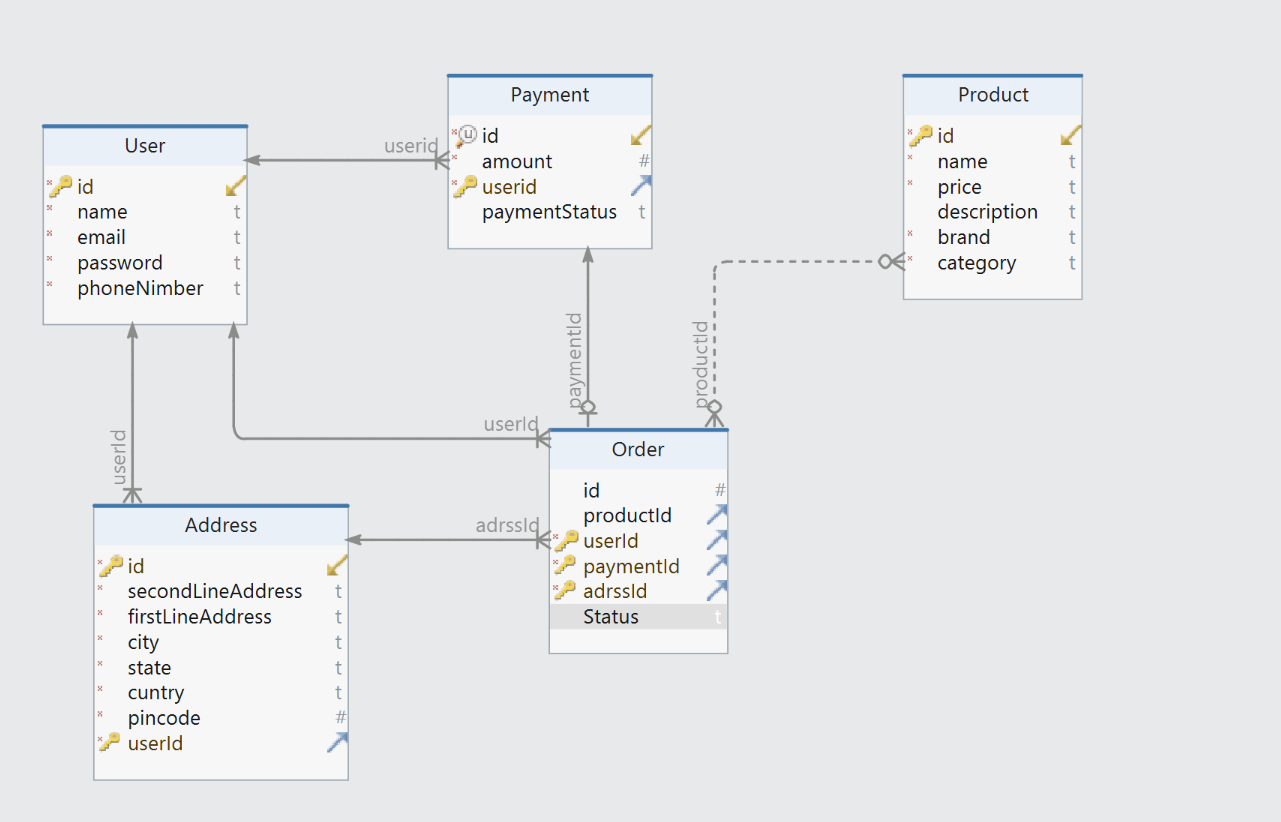
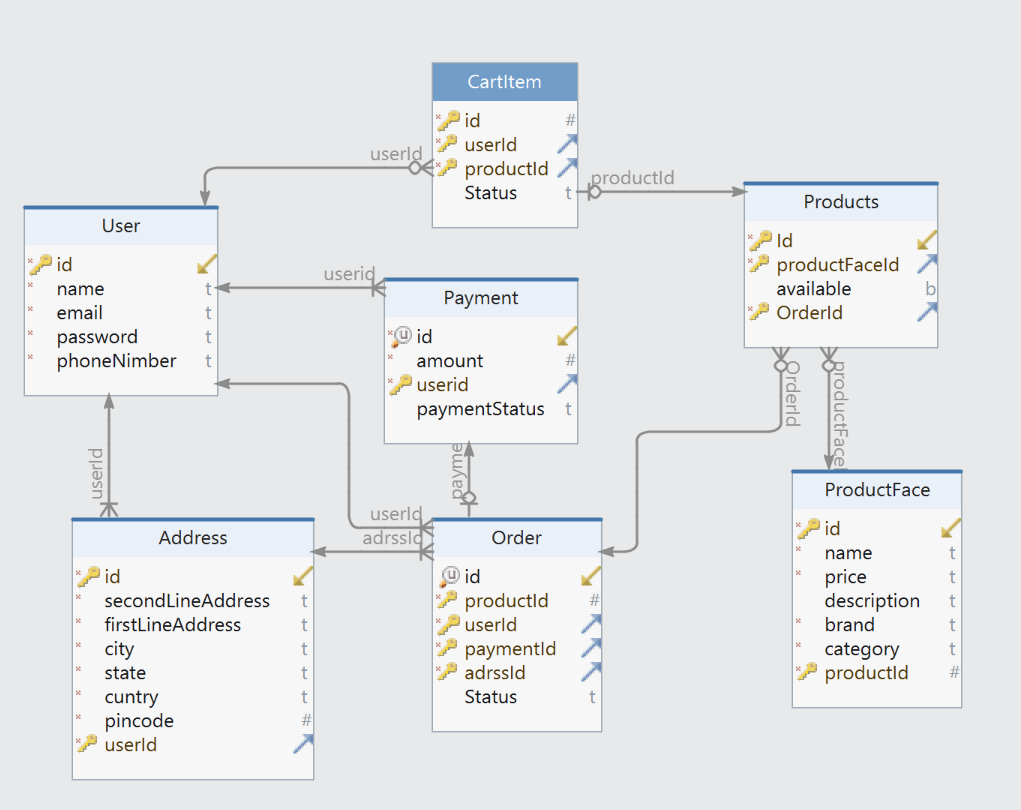
added corrected the json

diff --git a/src/main/java/com/Arjunagi/BuyAnything/services/PaymentServices.java b/src/main/java/com/Arjunagi/BuyAnything/services/PaymentServices.java
@@ -28,8 +28,10 @@ public class PaymentServices {
             FinalOrder finalOrder=finalOrderRepo.findById(payment.getFinalOrder().getId()).orElseThrow();
             if (payment.getPaymentStatus() == PaymentStatus.SUCCESS) {
                 finalOrder.setStatus(FinalOrderStatus.PlACED);
-                finalOrderServices.addProductsFromCartIds(finalOrder);
-                finalOrderServices.deleteCartItems(finalOrder.getCartIds());
+                if(finalOrder.getProducts()==null) {
+                    finalOrderServices.addProductsFromCartIds(finalOrder);
+                    finalOrderServices.deleteCartItems(finalOrder.getCartIds());
+                }
             }
             if (payment.getPaymentStatus() == PaymentStatus.PROCESSING)
                 finalOrder.setStatus(FinalOrderStatus.PROCESSING);

diff --git a/src/main/java/com/Arjunagi/BuyAnything/models/order/FinalOrder.java b/src/main/java/com/Arjunagi/BuyAnything/models/order/FinalOrder.java
@@ -23,6 +23,7 @@ public class FinalOrder {
     @ManyToOne
     @JoinColumn(name = "fkUserId")
     private User user;
+    @Transient
     private List<Integer> cartIds;
     @OneToMany
     @JoinColumn(name = "fkFinalOrderId")
@@ -32,7 +33,7 @@ public class FinalOrder {
     @JoinColumn(name = "fkPaymentId")
     private Payment payment;
     @ManyToOne
-    @JoinColumn(name = "fkaddress")
+    @JoinColumn(name = "fkAddress")
     private Address address;
     private FinalOrderStatus status;
 }

diff --git a/src/main/java/com/Arjunagi/BuyAnything/models/product/Product.java b/src/main/java/com/Arjunagi/BuyAnything/models/product/Product.java
@@ -13,12 +13,7 @@ public class Product {
     @Id
     @GeneratedValue(strategy = GenerationType.IDENTITY)
     private Integer id;
-    private String name;
-    private Double price;
-    private String description;
-    @Enumerated(EnumType.STRING)
-    private Category category;
-    @Enumerated(EnumType.STRING)
-    private Brand brand;
-    private Boolean available;
+    @ManyToOne
+    @JoinColumn(name = "fkProductFace")
+    private ProductFace productFace;
 }

diff --git a/src/main/java/com/Arjunagi/BuyAnything/models/product/ProductFace.java b/src/main/java/com/Arjunagi/BuyAnything/models/product/ProductFace.java
@@ -1,0 +1,9 @@
+package com.Arjunagi.BuyAnything.models.product;
+
+public class ProductFace {
+    private Integer id;
+    private String name;
+    private String description;
+    private Brand brand;
+    private  Category category;
+}

diff --git a/src/main/java/com/Arjunagi/BuyAnything/models/Address.java b/src/main/java/com/Arjunagi/BuyAnything/models/Address.java
@@ -19,6 +19,7 @@ public class Address {
     private String phoneNumber;
     private String zipcode;
     private String state;
+
     @ManyToOne
     @JsonIgnore
     @JoinColumn(name = "fkUserId")
